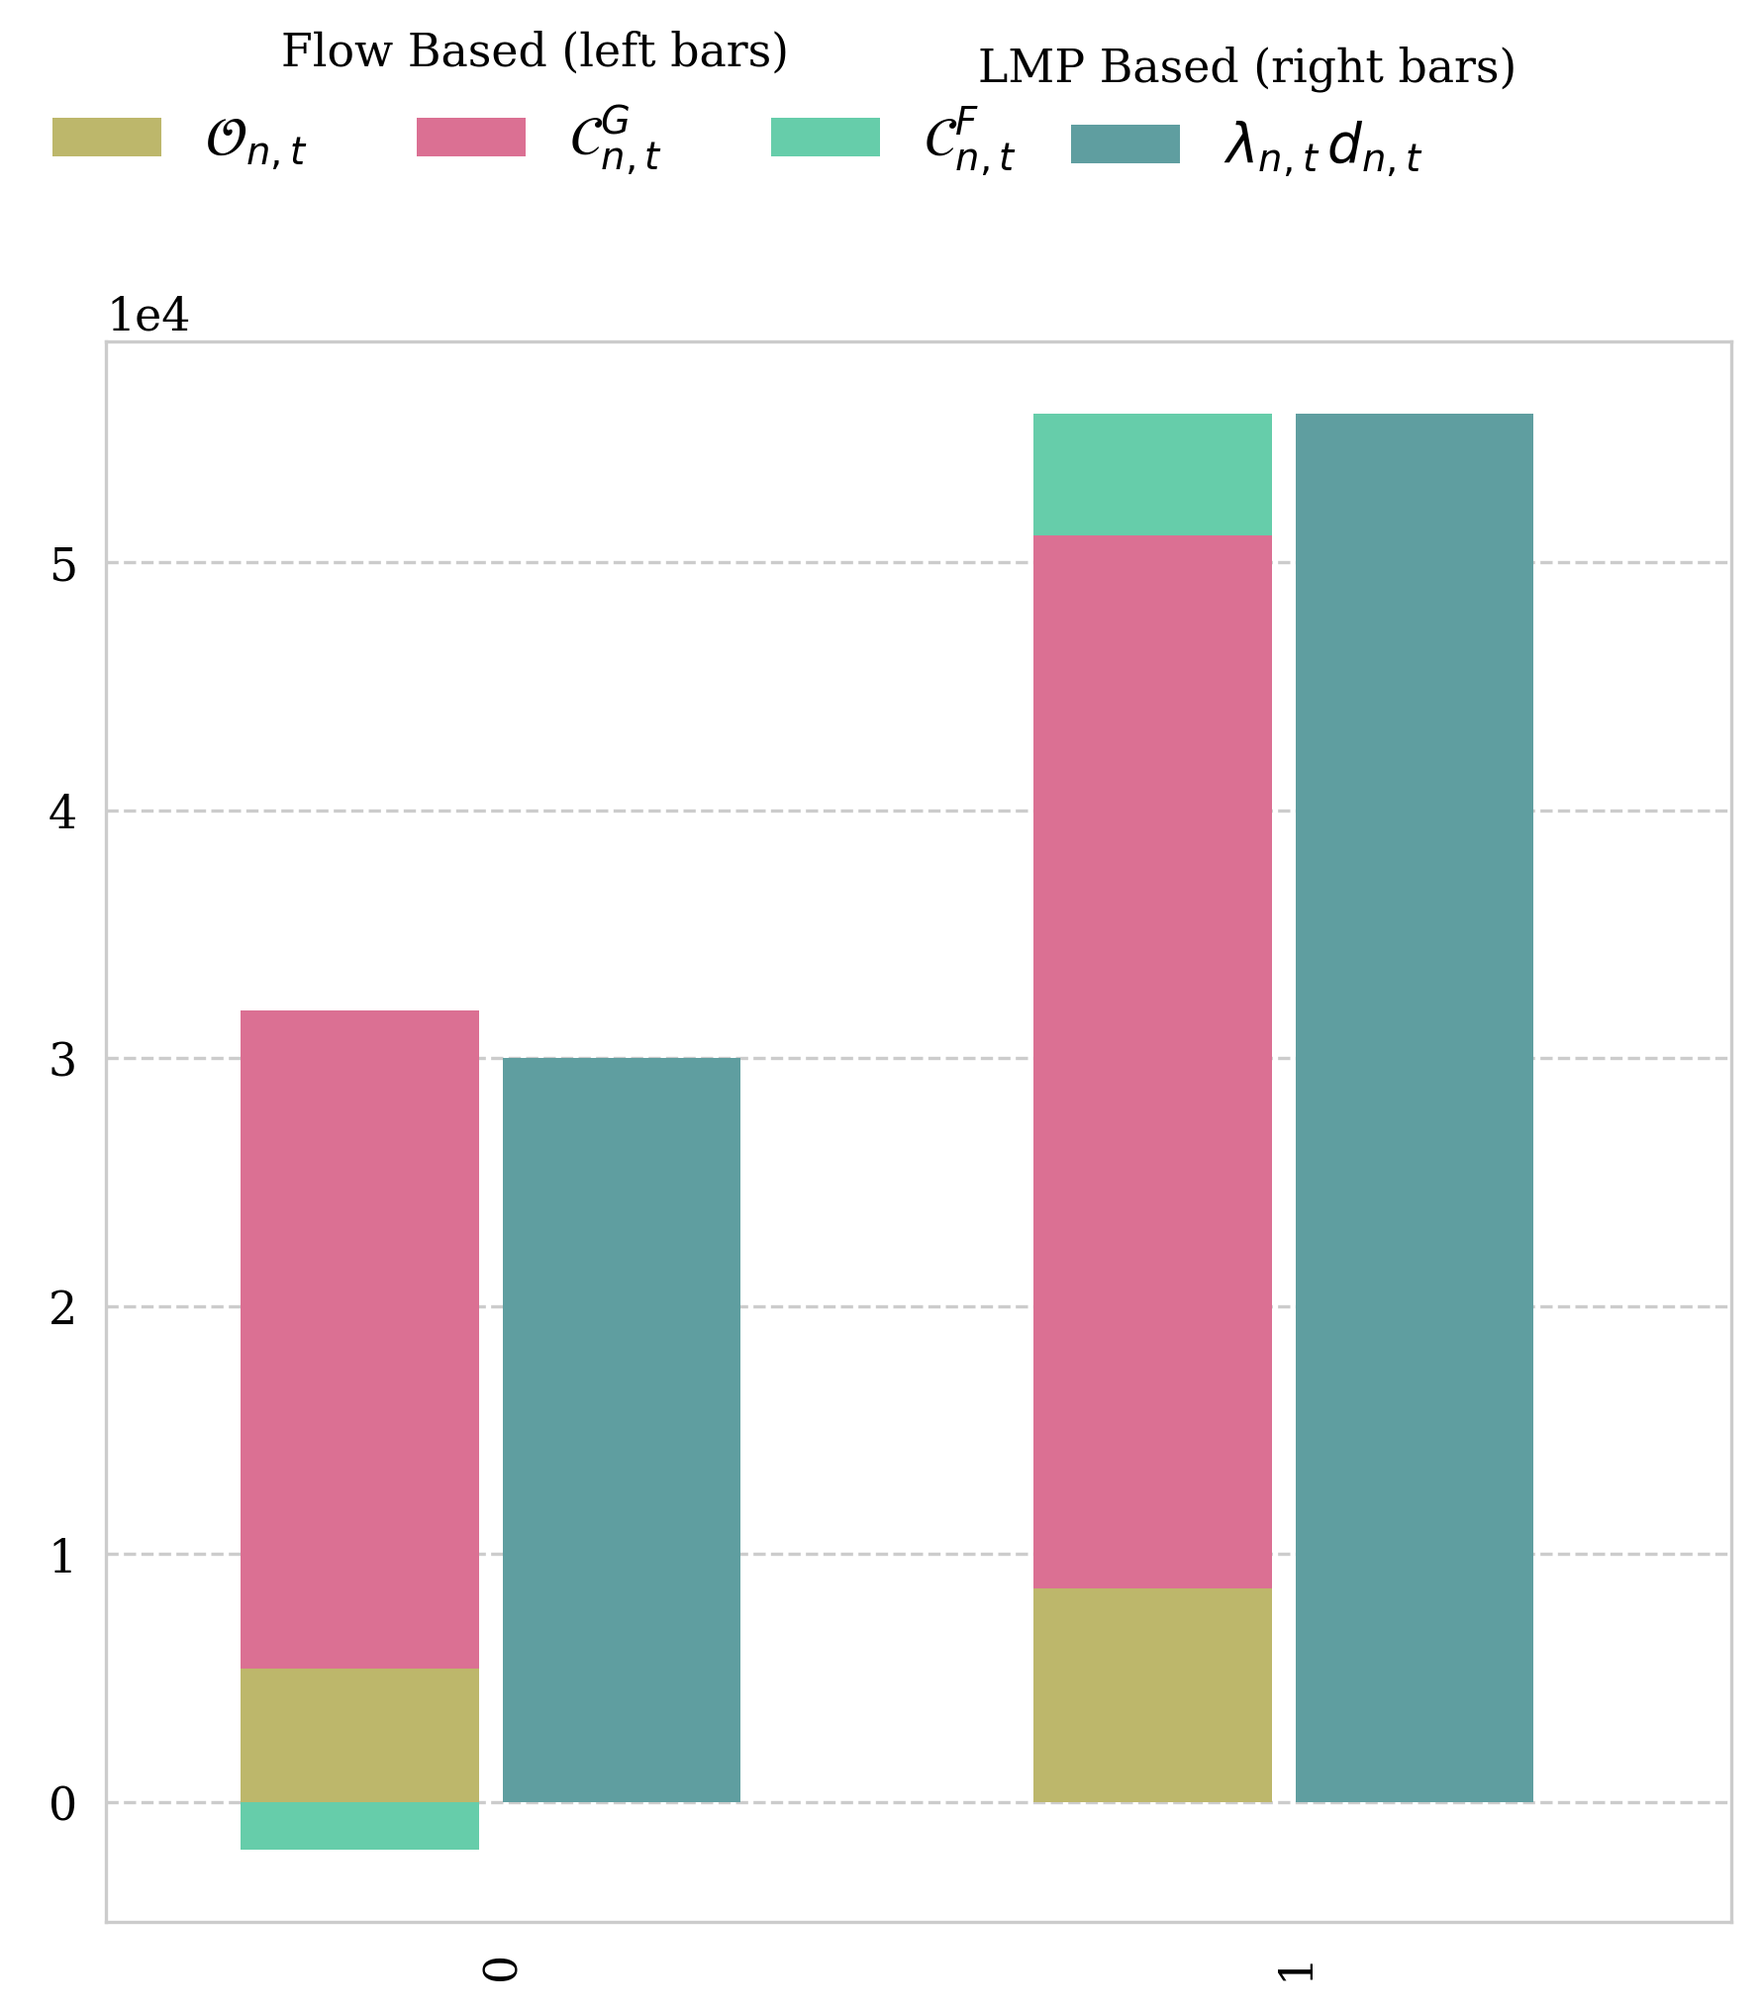
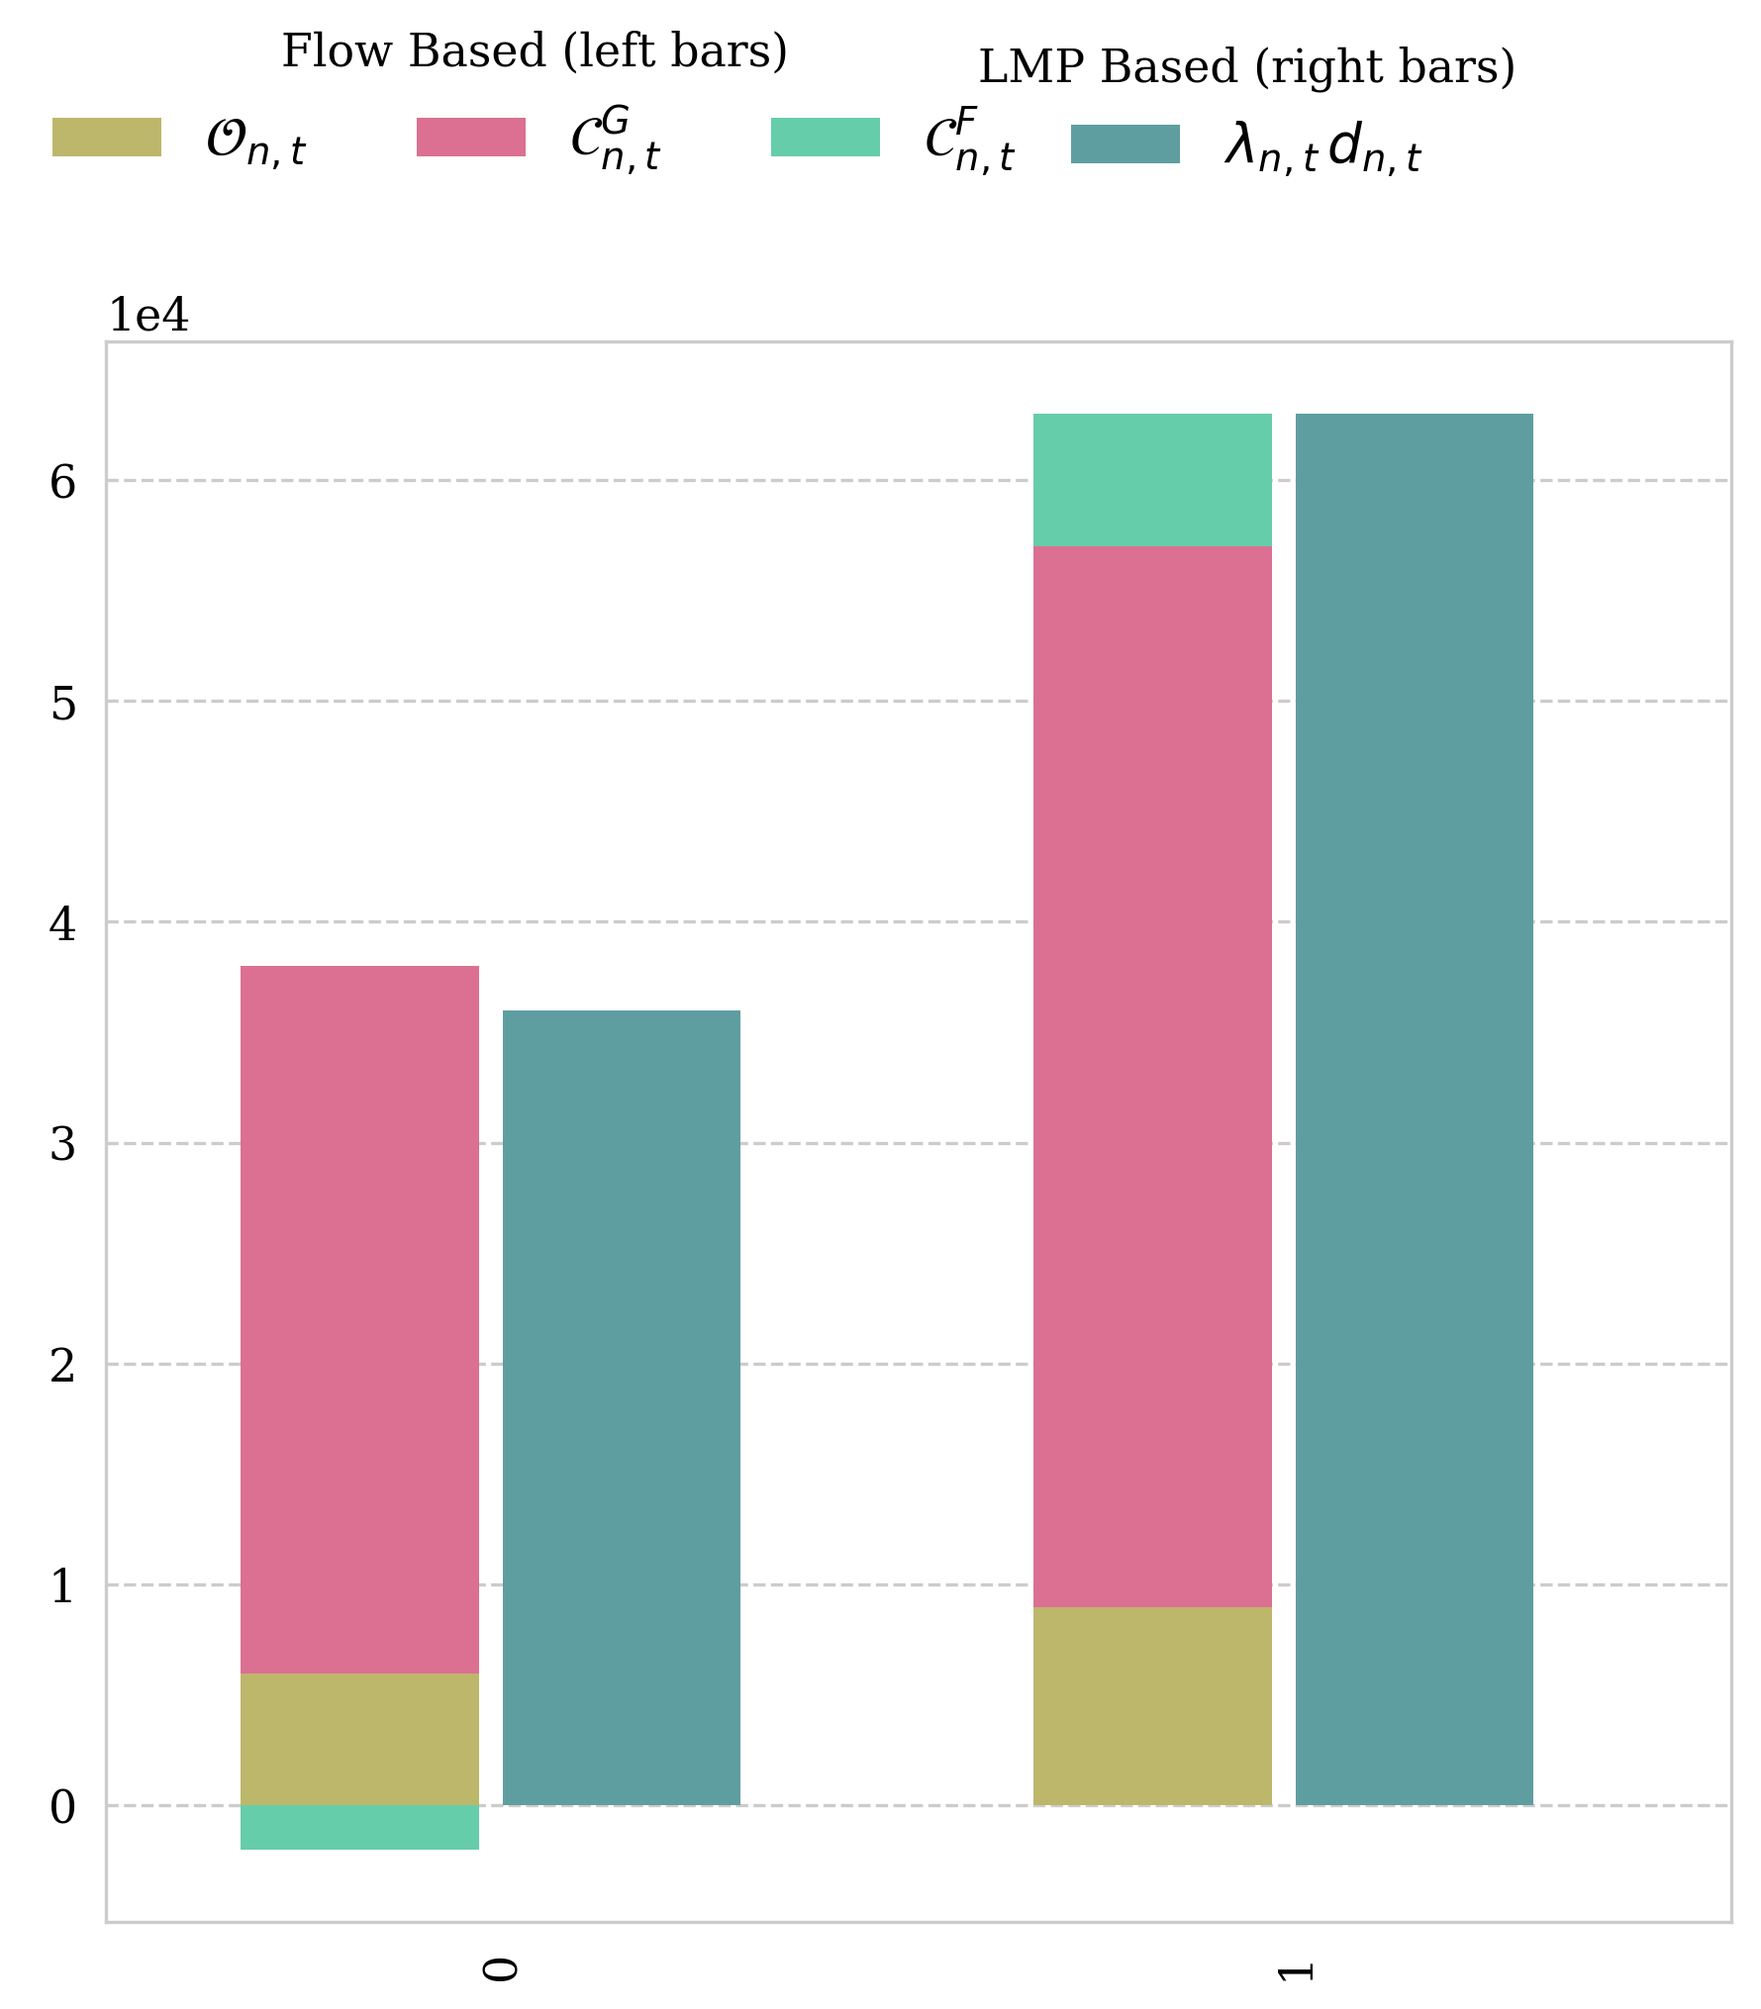
update figures

Changed region(s): [[0.1237, 0.4655, 0.4328, 0.5276], [0.5874, 0.7759, 0.742, 0.8069], [0.5874, 0.2483, 0.7111, 0.2793]]

diff --git a/main.tex b/main.tex
@@ -27,13 +27,18 @@
 \newcommand{\ubar}[1]{\underaccent{\bar}{#1}}
 \newcommand{\note}[1]{\textcolor{Orange}{#1}}
 \newcommand{\vpad}{\vspace{1mm}}
+\newcommand{\hpad}{\hspace{15pt}}
 
 \newcommand{\generation}[1][n]{g_{#1,s,t}}
 \newcommand{\generationpotential}{\bar{g}_{n,s,t}}
 \newcommand{\generationshare}[1][n]{\omega_{#1,s,t}}
 \newcommand{\nodalgeneration}[1][n]{g_{#1,t}}
 \newcommand{\capacityGeneration}{G_{n,s}}
+\newcommand{\capacityGenerationUpper}{\bar{G}_{n,s}}
+\newcommand{\capacityGenerationLower}{\ubar{G}_{n,s}}
 \newcommand{\capacityFlow}{F_{\ell}}
+\newcommand{\capacityFlowUpper}{\bar{F}_{\ell}}
+\newcommand{\capacityFlowLower}{\ubar{F}_{\ell}}
 \newcommand{\capexGeneration}{c_{n,s}}
 \newcommand{\capexFlow}{c_{\ell}}
 \newcommand{\opexGeneration}[1][n]{o_{#1,s}}
@@ -133,42 +138,42 @@ Maximizing the welfare of all market participants within a power system is a com
 	\end{tabular}
 \end{table}
 
-\subsubsection*{Cost Terms of the LMP}
+\section{Economic Context}
 
-In a power system with minimized total cost $\totalcost$, the Locational Market Price (LMP) describes the marginal price for an incremental increase of electricity demand $\demand$ of consumer $a$ at bus $n$. It is given by the derivative of the total system cost $\totalcost$ with respect to the local demand $\demand$
-\begin{align}
- \lmp = \pdv{\,\totalcost}{\,\demand}
-\end{align}
-For long term operation and investment planning models, $\totalcost$ includes all operational expenditures (OPEX) $\totalOpexGeneration$ and capital expenditures (CAPEX) $\totalCapexGeneration$ and $\totalCapexFlow$ for production  and transmission respectively, thus
+In long-term operation and investment planning models, the total costs $\totalcost$ of a power system include all operational expenditures (OPEX) $\totalOpexGeneration$ and capital expenditures (CAPEX) $\totalCapexGeneration$ and $\totalCapexFlow$ for production  and transmission respectively, thus
 \begin{align}
   \totalcost &= \totalOpexGeneration + \totalCapexGeneration +  \totalCapexFlow + \text{rest}
   \label{eq:total_cost_terms}
 \end{align}
+In a network design with minimal $\totalcost$, the Locational Market Price (LMP) describes the marginal price for an incremental increase of electricity demand $\demand$ of any consumer $a$ at bus $n$. It is given by the derivative of the total system cost $\totalcost$ with respect to the local demand $\demand$
+\begin{align}
+ \lmp = \pdv{\,\totalcost}{\,\demand}
+ \label{eq:total_cost_derivative}
+\end{align}
+This leads to a nodal pricing where over the span of optimized timesteps $t$, the system costs are totally payed back by the consumers 
+\begin{align}
+ \totalcost &=  \sum_{n,a,t} \lmp \, \demand
+ \label{eq:total_cost_sum}
+\end{align}
 % 
 \begin{figure}[h]
- \includegraphics[width=0.9\linewidth]{figures/price_decomposition.png}
+\centering
+ \includegraphics[width=.8\linewidth]{figures/price_decomposition.png}
  \caption{Schematic decomposition of the Locational Market Price $\lmp$. In power system model with optimal long-term operation and planning, the total system costs $\totalcost$ split into different cost terms, \textit{i.e} OPEX and CAPEX for production and transmission and possibly other expenditures. As $\,\totalcost$ is fully payed by the consumers, each LMP $\lmp$ can be decomposed into cost terms compensating the different expenditures at timestep $t$.}
  \label{fig:price_decomposition}
 \end{figure}
 
-Over the span of optimized timesteps $t$, the system costs are totally payed back by the consumers 
-\begin{align}
- \totalcost &=  \sum_{n,a,t} \lmp \, \demand
- \label{eq:total_cost_sum}
- \end{align}
 % 
-As a direct consequence of \cref{eq:total_cost_terms,eq:total_cost_sum}, the LMP splits into different cost terms assigned to OPEX and CAPEX for production and transmission and eventual other expenditures. We schematically show this behaviour in \cref{fig:price_decomposition}. 
+As a direct consequence of \cref{eq:total_cost_terms,eq:total_cost_derivative,eq:total_cost_sum}, the LMP splits into different cost terms assigned to OPEX and CAPEX for production and transmission and eventual other expenditures. We schematically show this behaviour in \cref{fig:price_decomposition}. 
 Extensive investigations of the LMP as done in \cite{schweppe_spot_1988} already showed this connection however leave the question open how the costs are allocated among the components. In the following we will show how the above presented cost decomposition is extended to full peer-to-peer cost allocation including all network components. 
 
 
 
-% \section{Mathematical Theory}
+\section{Mathematical Theory}
 
 
 
-
-
-\subsubsection*{Power Transfer Distribition Factors and Flow Allocation}
+\subsection{Power Transfer Distribition Factors and Flow Allocation}
 
 
 In linear power flow models, the Power Transfer Distribition Factors (PTDF) $\ptdf$ determine the changes in the flow on line $\ell$ for one unit (typically one MW) of net power production at bus $n$. Thus for a given production $\generation$ and demand $\demand$, they directly link to the the resulting flow on each line, 
@@ -235,7 +240,7 @@ The solution to $\slackk$ follows from combining \cref{eq:allocate_peer,eq:sum_n
 
 
 
-\subsubsection*{Network Optimisation}
+\subsection{Network Optimisation}
 
 % Maximise $f(x_l)$, with equality constraints $g_i(x_l)$ and inequality constraints $h_j(x_l)$
 % 
@@ -248,8 +253,8 @@ The solution to $\slackk$ follows from combining \cref{eq:allocate_peer,eq:sum_n
 We linearly cost-optimize the capacity and dispatch of a simple power system. 
 
 \begin{align}
-    \underset{\generation, \capacityGeneration, \capacityFlow}{\text{max}}
-    \left(-\sum_{n,s} \capexGeneration \capacityGeneration - \sum_{n, s, t} \opexGeneration \generation - \sum_{\ell} \capexFlow \, \capacityFlow \right) \label{eq:minisation}
+    \underset{\generation, \capacityGeneration, \capacityFlow}{\text{min}}
+    \left(\sum_{n,s} \capexGeneration \capacityGeneration + \sum_{n, s, t} \opexGeneration \generation + \sum_{\ell} \capexFlow \, \capacityFlow \right) \label{eq:minisation}
 \end{align}
 subject to following physical constraints. 
 \\
@@ -297,7 +302,7 @@ set the respective KKT for flows staying below the thermal limit to zero.
 
 
 
-\subsubsection*{Decomposing the Locational Marginal Prices and Allocating the Electricity Costs}
+\subsection{Allocating Nodal Payments}
 \begin{align}
 \notag
  & \lagrangian\left(\generation, \flow, \capacityGeneration, \capacityFlow, \boldsymbol{\lambda}, \boldsymbol{\mu} \right)   =   \\  
@@ -434,7 +439,8 @@ where we used the complementary slackness \cref{eq:complementary_slackness_upper
 % The transmission lines carry power from nodes with lower LMP to nodes with higher LMP, the price difference times the transported power is their congestion revenue. \note{Sign is different to Tom's paper (there a minus is missing).}
 
 
-\subsubsection*{Adding CO$_2$ Constraints}
+\subsection{Adding Further Constraints}
+\subsubsection*{CO$_2$ Constraint}
 
 Imposing an additional CO$_2$ constraint limiting the total emission to K,  
 \begin{align}
@@ -463,8 +469,37 @@ which expands the allocation of the electricity cost in \cref{eq:lmp_allocation}
  \label{eq:lmp_allocation_with_emission}
 \end{align}
 
+\subsubsection*{Lower and Upper Capacity Limits}
 
-% \newpage
+Constraining the capacities $\capacityGeneration$  for a subset $S$ of generators to lower or upper limits in the form of 
+\begin{align}
+ \capacityGeneration \ge \capacityGenerationLower \hpad \forall{n,s \in S} \\
+ \capacityGeneration \le \capacityGenerationUpper \hpad \forall{n,s \in S}
+\end{align}
+or doing likewise with a subset $L$ of transmission lines,
+\begin{align}
+ \capacityFlow \ge \capacityFlowLower \hpad \forall{\ell \in \textit{L}} \\
+ \capacityFlow \le \capacityFlowUpper \hpad \forall{\ell \in \textit{L}}
+\end{align}
+does not have any effect on the above presented allocation. The additional cost directly translate t<o the Quality of Supply $\muuppergeneration$ for production and $\muupperflow - \mulowerflow$ for transmission respectively. This also counts for limiting the overall production capacity $\sum_{n,s}\capacityGeneration$ or transmission capacity $\sum_\ell \capacityFlow$. 
+
+\section{Numerical Example}
+
+\begin{figure*}[h]
+\centering
+ \includegraphics[width=\linewidth]{example_network_constraint_capacity.png}
+ \caption{Illustrative Example of a two bus optimized network with one time step. }
+ \label{fig:example_network}
+\end{figure*}
+
+\begin{figure}[h]
+\centering
+ \includegraphics[width=\linewidth]{example_payoff_constraint_capacity.png}
+ \caption{Full cost allocation for the example setup shown in \cref{fig:example_network}. The payments on the basis of \cref{eq:allocate_opexGeneration_detailed,eq:allocate_capexGeneration_detailed,eq:allocate_capexFlow_detailed}}
+ \label{fig:example_payoff}
+\end{figure}
+
+\newpage
 % \section*{Showcase}
 % 
 % \subsection*{Network with CO$_2$ constraint}

diff --git a/examples.py b/examples.py
@@ -16,18 +16,18 @@ import seaborn as sns
 from config import to_symbol_dict, color
 plt.rc('text', usetex=False)
 
-tag = ''
-add_gen_args = {}
+# tag = ''
+# add_gen_args = {}
 
-# tag = '_constraint_capacity'
-# add_gen_args = {'p_nom_max': 80}
+tag = '_constraint_capacity'
+add_gen_args = {'p_nom_max': 100}
 
 
 n = pypsa.Network()
 n0 = '0'
 n1 = '1'
-d0 = 50
-d1 = 80
+d0 = 60
+d1 = 90
 o0 = 50
 o1 = 200
 c0 = 500
@@ -60,35 +60,44 @@ ca_df = ca_sum.sel(snapshot=sn, drop=True).to_dataframe()
 dc_df = dc.sel(snapshot=sn, drop=True).to_dataframe()
 
 # %%
-fig, ax = plt.subplots()
+fig, ax = plt.subplots(figsize=(12,5))
 
 n.plot(flow=ntl.network_flow(n, sn).to_series()/50, margin=0.3, ax=ax,
        geomap=False, bus_sizes = ca_df.stack().clip(lower=0)/5e6, bus_colors=color)
 bbox = dict(facecolor='w', alpha=0.3, edgecolor='grey', boxstyle='round')
-textkwargs = dict(size=12, color='darkslategray', ha="left", va="top",
+textkwargs = dict(size=12, color='darkslategray', va="top",
                   bbox=bbox, zorder=8)
+wpad = 0.04
+
 bus0_fix = (f'Fixed:  \n\no = {o0} €/MW\nc = {c0} €/MW\nd = {d0} MW')
 bus0_opt = (f'Optimized:  \n\ng = {g0} MW\nG = {G0} MW')
 bus0_pay = (f'Fix quantities:  \n\no = {o0} €/MW\nc = {c0} €/MW\nd = {d0} MW')
-ax.text(n.buses.x[0]-.22, n.buses.y[0]+.26, bus0_fix, **textkwargs)
-ax.text(n.buses.x[0], n.buses.y[0]+.26, bus0_opt, **textkwargs)
+
+dy = .3
+ax.text(n.buses.x[0]-wpad, n.buses.y[0]+dy, bus0_fix, ha='right', **textkwargs)
+ax.text(n.buses.x[0], n.buses.y[0]+dy, bus0_opt, ha='left', **textkwargs)
 
 bus1_fix = (f'Fixed:  \n\no = {o1} €/MW\nc = {c1} €/MW\nd = {d1} MW')
 bus1_opt = (f'Optimized:  \n\ng = {g1} MW\nG = {G1} MW')
 bus0_pay = (f'Fix quantities:  \n\no = {o0} €/MW\nc = {c0} €/MW\nd = {d0} MW')
-ax.text(n.buses.x[1]-.18, n.buses.y[1]-.12, bus1_fix, **textkwargs)
-ax.text(n.buses.x[1]+.04, n.buses.y[1]-.12, bus1_opt, **textkwargs)
+
+dy = - .15
+dx = .1
+ax.text(n.buses.x[1]+dx, n.buses.y[1]+dy, bus1_fix, ha='right', **textkwargs)
+ax.text(n.buses.x[1]+dx+wpad, n.buses.y[1]+dy, bus1_opt, ha='left', **textkwargs)
 
 line_fix = (f'Fixed:  \n\nc = {c_l} €/MW')
 line_opt = (f'Optimized:  \n\nf = {F} MW\nF = {F} MW')
 bus0_pay = (f'Fix quantities:  \n\no = {o0} €/MW\nc = {c0} €/MW\nd = {d0} MW')
-ax.text(n.buses.x.mean()-.2, n.buses.y.mean()+.25, line_fix, **textkwargs)
-ax.text(n.buses.x.mean()+.02, n.buses.y.mean()+.25, line_opt, **textkwargs)
+
+dy = 0.3
+ax.text(n.buses.x.mean()-wpad, n.buses.y.mean()+dy, line_fix, ha='right', **textkwargs)
+ax.text(n.buses.x.mean(), n.buses.y.mean()+dy, line_opt, ha='left', **textkwargs)
 
 ax.legend(*handles_labels_for(color[ca_df.columns].rename(to_symbol_dict)),
-          ncol=1, loc='upper left')
+          ncol=3, loc='upper left', frameon=False, fontsize='large')
 ntl.plot.annotate_bus_names(n, ax, shift=0, bbox='fancy')
-# fig.tight_layout()
+fig.tight_layout()
 fig.savefig(f'figures/example_network{tag}.png', bbox_inches='tight')
 
 # %%
@@ -117,16 +126,23 @@ fig.savefig(f'figures/example_cost_shares{tag}.png', bbox_inches='tight')
 
 to_indices = pd.Series(dict(payer='n', receiver_nodal_cost='m',
                             receiver_transmission_cost='$\ell$'))
-fig, axes = plt.subplots(1, 3, figsize=(10,3))
+fig, axes = plt.subplots(1, 3, figsize=(5,2.5), sharey=True,
+                          gridspec_kw={'width_ratios':[0.4,.4,.2]})
 L = len(ca.receiver_transmission_cost)
 payoff = ca.sum(['snapshot', 'receiver_carrier'])\
            .assign_coords(receiver_transmission_cost=range(L))
 payoff = payoff.rename(to_indices)
+vmax = payoff.to_array().max()
 for i, v in enumerate(payoff):
     ax = axes[i]
     df = payoff[v].to_pandas().T
-    sns.heatmap(df, cmap='Blues', ax=ax, annot=True, fmt='10.0f', cbar=False)
+    annot = df.round(0).div(1e3).astype(int).astype(str) + 'k €'
+    sns.heatmap(df, cmap='Reds', ax=ax, annot=annot, fmt='s',
+                cbar=False, vmin=-1000, vmax=vmax, linewidths=1, square=True,
+                annot_kws={'horizontalalignment': 'left'})
+    if i:
+        ax.set_ylabel('')
     ax.set_title(to_symbol_dict[v])
-fig.tight_layout()
+fig.tight_layout(w_pad=0)
 fig.savefig(f'figures/example_payoff{tag}.png', bbox_inches='tight')
 

diff --git a/dist_costs.py b/dist_costs.py
@@ -26,7 +26,7 @@ to_symbol_dict = dict(one_port_investment_cost = '$\mathcal{C}^{G}_{n,t}$',
 
 n = ntl.test.get_network_ac_dc()
 n.carriers = n.carriers.drop('battery')
-n.generators['p_nom_min'] = 0
+# n.generators['p_nom_min'] = 0
 
 tag = ''
 relax_co2 = False
